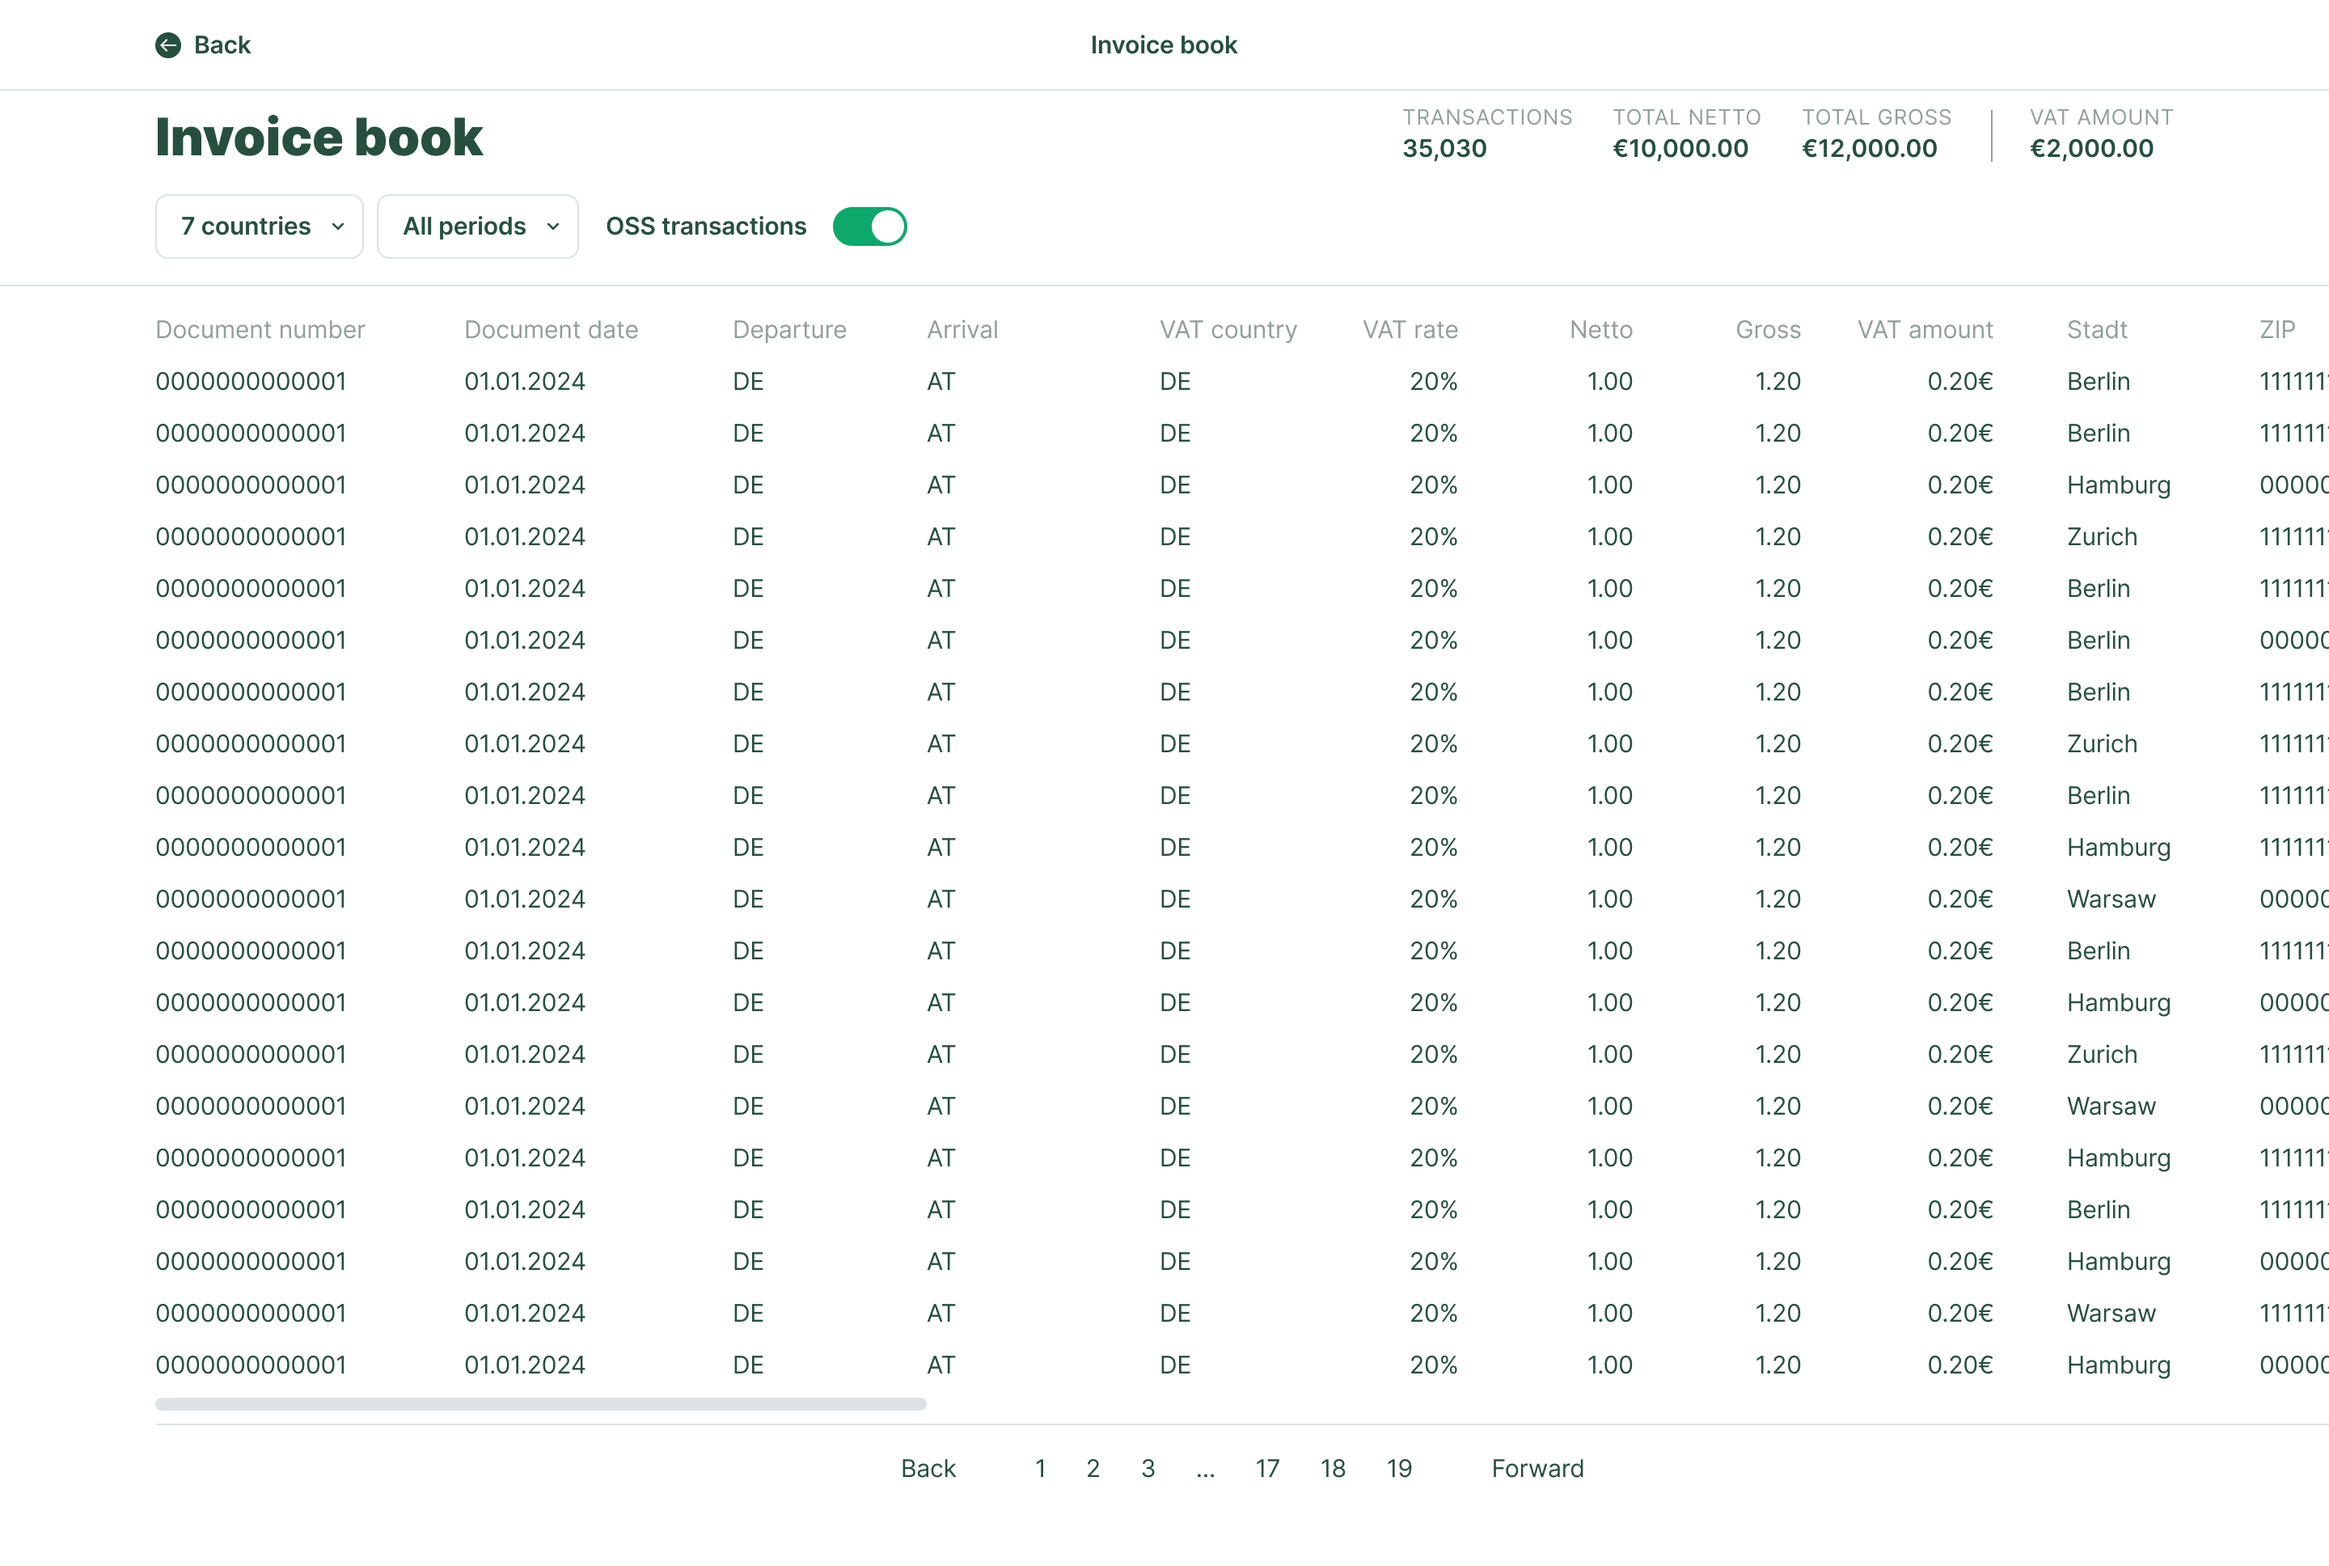
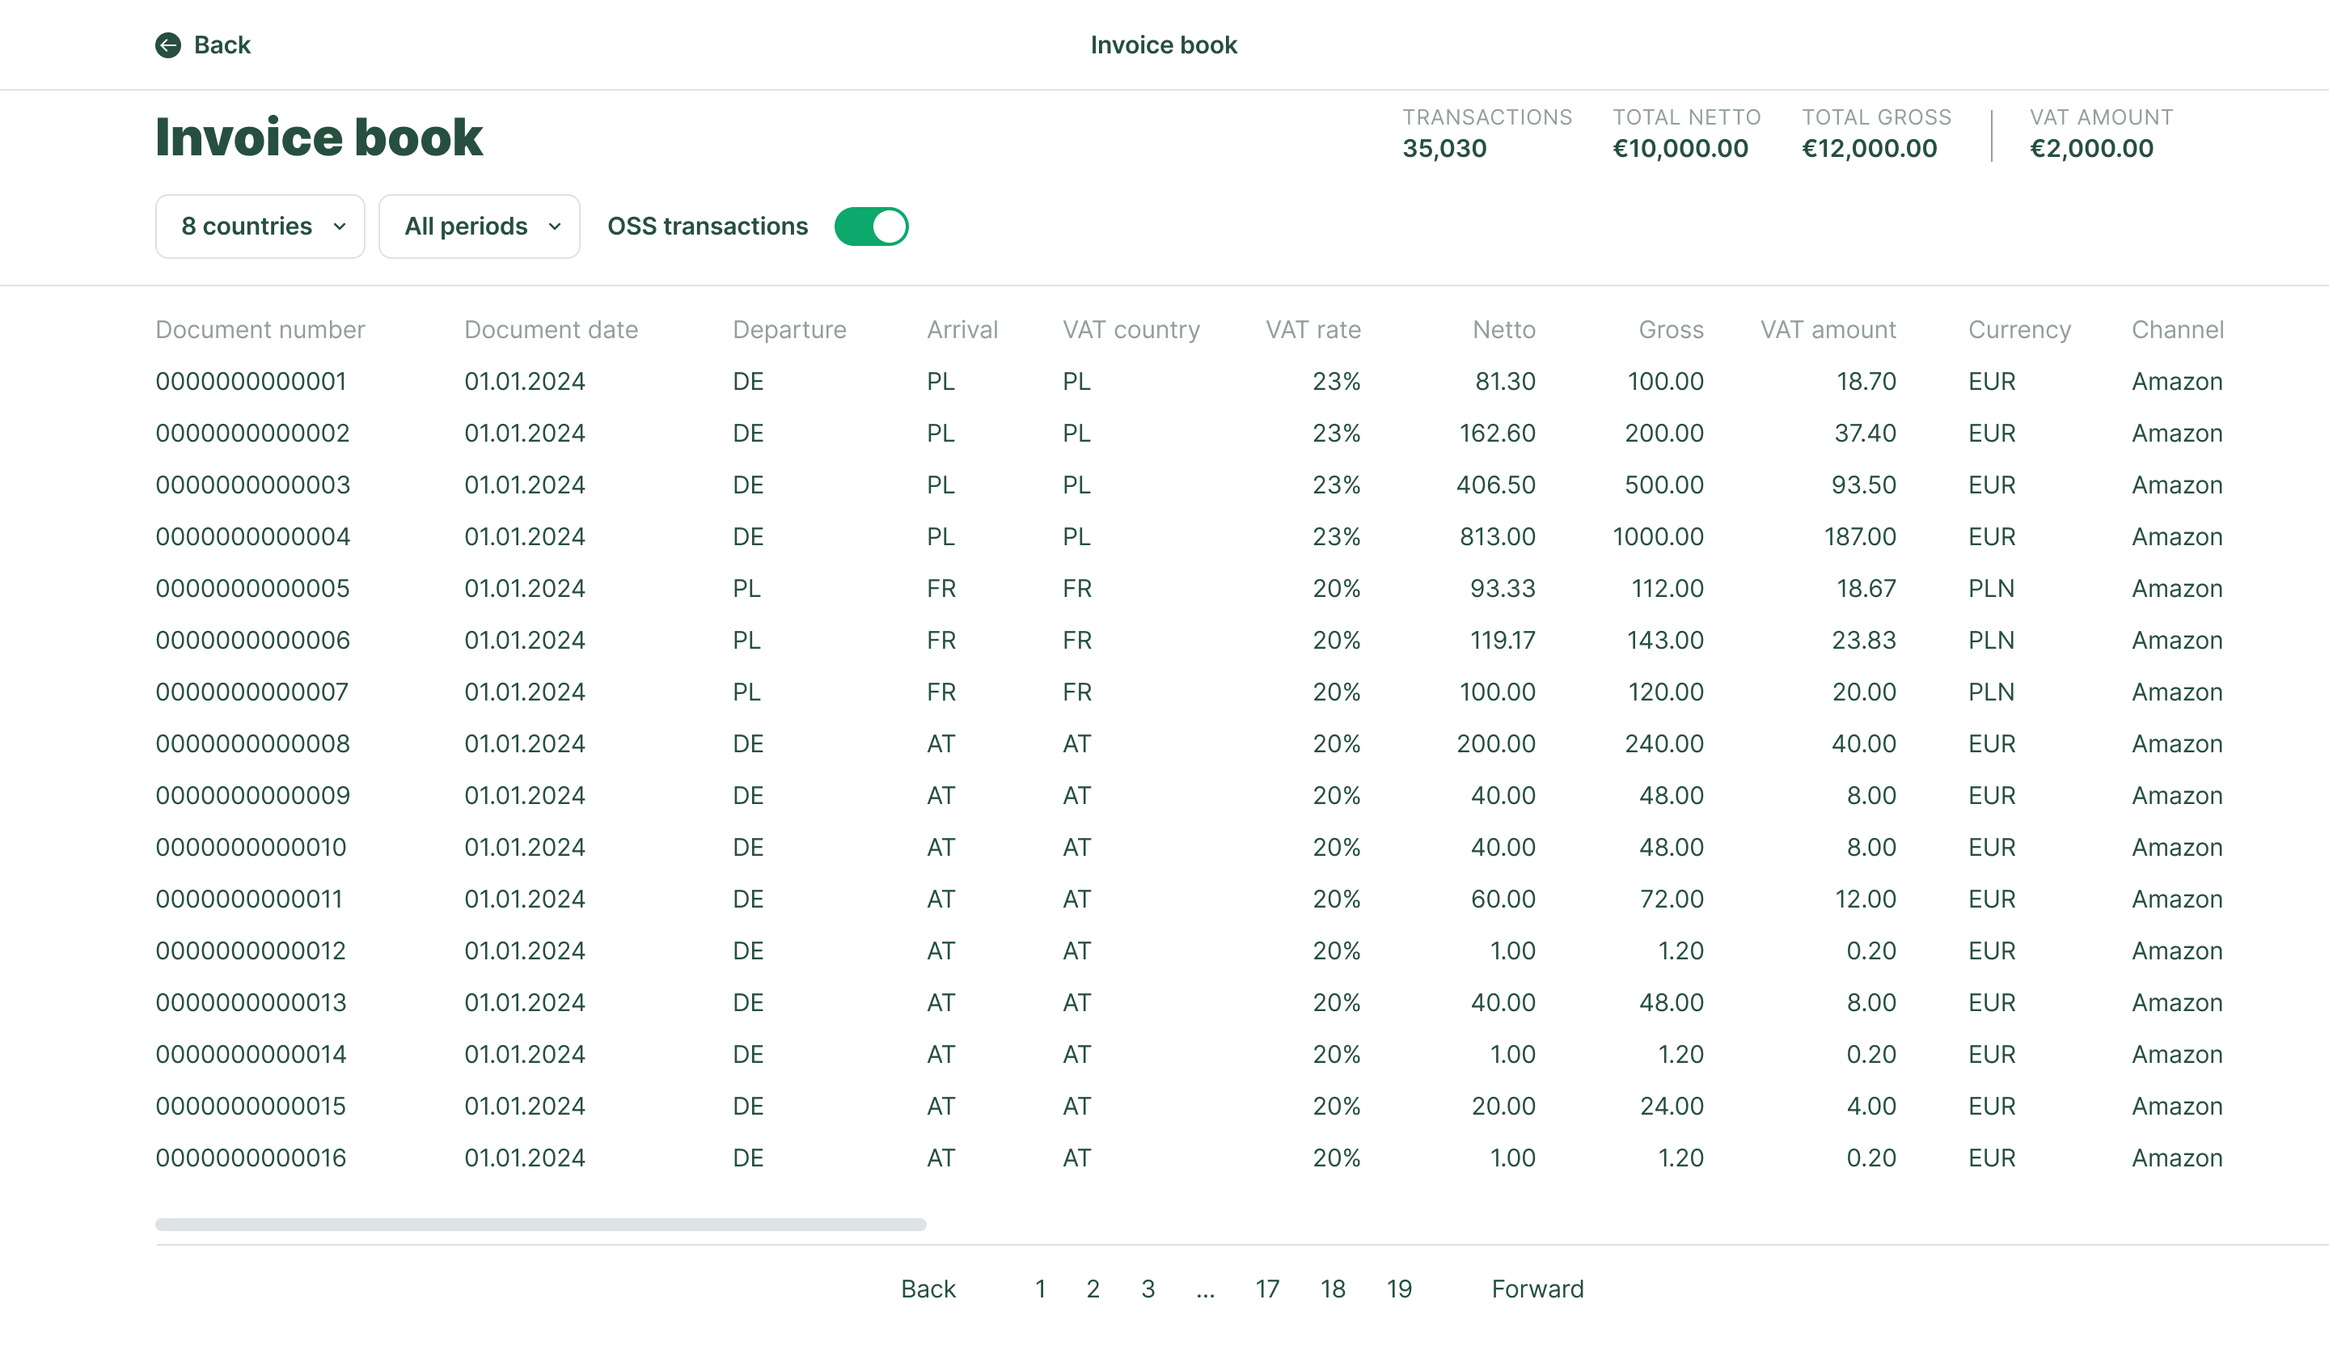
Renewed screenshots

diff --git a/README.md b/README.md
@@ -18,7 +18,10 @@ top-level information about the invoice, and the `turnover_item` table contains 
 vat rates. A single line in a `turnover_item` table represents a single line in the invoice book in the resulting
 web-application.
 
-Desired outcome illustrations:
+Users should have the capability to filter their invoice view based on several criteria, including the VAT country,
+the time period, and the 'is_oss' property.
+
+Desired outcome screenshots:
 
 ![Invoice Book](https://github.com/countxvat/dev-task/blob/63db8efb0814af1ccda86fd1ec191cdc485686d2/public/img/invoice_book_example.png?raw=true)
 
